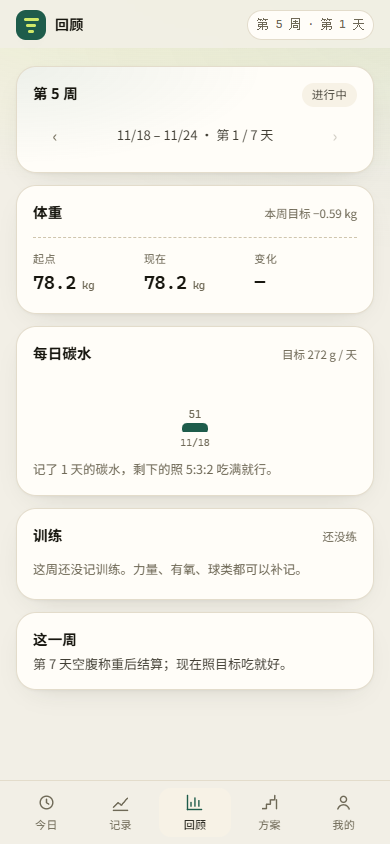
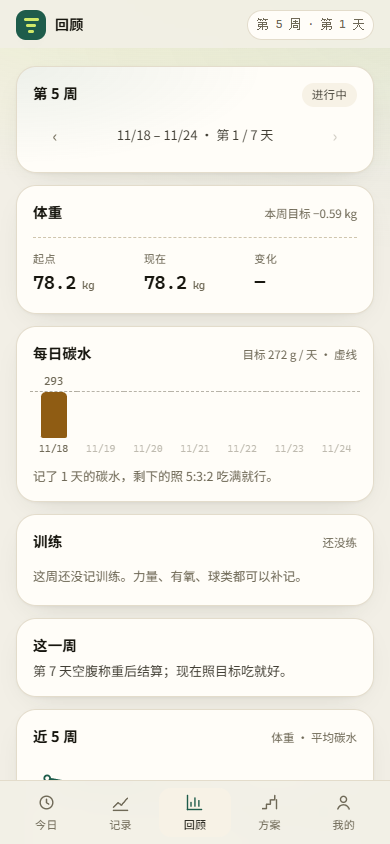
回顾页加目标虚线与未到日期占位，新增近 8 周体重/碳水趋势（v19）

diff --git a/assets/app.js b/assets/app.js
@@ -714,14 +714,25 @@
       var cls = d.over ? ' is-over' : (!d.logged ? ' is-empty' : '');
       return '<div class="rv-bar' + cls + '">' +
         '<span class="rv-val">' + (d.logged ? n0(d.carb) : '') + '</span>' +
-        '<i style="height:' + Math.max(3, Math.round(pct * 0.46)) + 'px"></i>' +
+        '<div class="rv-plot"><u class="rv-goal"></u>' +
+          '<i style="height:' + Math.max(3, Math.round(pct * 0.46)) + 'px"></i></div>' +
         '<span class="rv-day">' + md(d.key).replace('/', '/') + '</span>' +
       '</div>';
     }).join('');
+    var future = '';
+    if (r.isCurrent) {
+      for (var fi = r.carb.days.length; fi < 7; fi++) {
+        future += '<div class="rv-bar is-future" aria-hidden="true">' +
+          '<span class="rv-val"></span>' +
+          '<div class="rv-plot"><u class="rv-goal"></u><i style="height:0"></i></div>' +
+          '<span class="rv-day">' + md(C.addDaysKey(r.from, fi)).replace('/', '/') + '</span>' +
+        '</div>';
+      }
+    }
     parts.push(
       '<section class="card">' +
-        '<div class="card-head"><h2>每日碳水</h2><span class="muted small">目标 ' + n0(r.carb.target) + ' g / 天</span></div>' +
-        '<div class="rv-bars" role="img" aria-label="' + esc('本周每日碳水：' + r.carb.days.map(function (d) { return md(d.key) + ' ' + n0(d.carb) + ' 克'; }).join('，')) + '">' + bars + '</div>' +
+        '<div class="card-head"><h2>每日碳水</h2><span class="muted small">目标 ' + n0(r.carb.target) + ' g / 天 · 虚线</span></div>' +
+        '<div class="rv-bars" role="img" aria-label="' + esc('本周每日碳水：' + r.carb.days.map(function (d) { return md(d.key) + ' ' + n0(d.carb) + ' 克'; }).join('，')) + '">' + bars + future + '</div>' +
         '<p class="rv-note">' + (r.carb.logged ? '记了 ' + r.carb.logged + ' 天的碳水，剩下的照 5:3:2 吃满就行。' : '这周还没记过吃的，点「今日 → 全部食物」开始。') + '</p>' +
       '</section>'
     );
@@ -750,7 +761,61 @@
       '</section>'
     );
 
+    parts.push(trendCard());
+
     return parts.join('');
+  }
+
+  /* 近 8 周趋势：周末体重折线 + 每周平均碳水 */
+  function trendCard() {
+    var m = C.monthlyReview(state, 8);
+    var list = m.weeks;
+    var weights = list.filter(function (w) { return w.weightEnd != null; });
+    var head = '<div class="card-head"><h2>近 ' + list.length + ' 周</h2>' +
+      '<span class="muted small">体重 · 平均碳水</span></div>';
+
+    var chart;
+    if (weights.length < 2) {
+      chart = '<p class="empty">再记 ' + (2 - weights.length) + ' 周体重，这里就会出现趋势线。</p>';
+    } else {
+      var W = 320, H = 84, P = 14;
+      var ys = weights.map(function (w) { return w.weightEnd; });
+      var lo = Math.min.apply(null, ys) - 0.4, hi = Math.max.apply(null, ys) + 0.4;
+      if (hi - lo < 0.8) { hi = lo + 0.8; }
+      function px(i) { return P + (list.length === 1 ? 0 : i / (list.length - 1)) * (W - 2 * P); }
+      function py(v) { return H - P - ((v - lo) / (hi - lo)) * (H - 2 * P); }
+      var pts = [];
+      list.forEach(function (w, i) { if (w.weightEnd != null) pts.push([px(i), py(w.weightEnd)]); });
+      var d = pts.map(function (p, i) { return (i ? 'L' : 'M') + p[0].toFixed(1) + ' ' + p[1].toFixed(1); }).join(' ');
+      var dots = pts.map(function (p) { return '<circle class="dot" cx="' + p[0].toFixed(1) + '" cy="' + p[1].toFixed(1) + '" r="2.8"/>'; }).join('');
+      var last = pts[pts.length - 1];
+      chart = '<svg class="chart trend" viewBox="0 0 ' + W + ' ' + H + '" role="img" aria-label="' +
+        esc('近 ' + list.length + ' 周周末体重：' + weights.map(function (w) { return '第' + w.week + '周 ' + n1(w.weightEnd) + ' 公斤'; }).join('，')) + '">' +
+        '<path class="line" d="' + d + '"/>' + dots +
+        '<text class="cap" x="' + last[0].toFixed(1) + '" y="' + (last[1] - 8).toFixed(1) + '" text-anchor="end">' + n1(weights[weights.length - 1].weightEnd) + '</text>' +
+      '</svg>';
+    }
+
+    var weeks = list.map(function (w) {
+      var pct = w.carbAvg != null ? Math.min(100, (w.carbAvg / w.carbTarget) * 100) : 0;
+      var cls = w.carbAvg == null ? ' is-empty' : (w.carbAvg > w.carbTarget + 0.5 ? ' is-over' : '');
+      return '<div class="rv-bar' + cls + '">' +
+        '<span class="rv-val">' + (w.carbAvg != null ? n0(w.carbAvg) : '') + '</span>' +
+        '<div class="rv-plot"><u class="rv-goal"></u>' +
+          '<i style="height:' + Math.max(3, Math.round(pct * 0.46)) + 'px"></i></div>' +
+        '<span class="rv-day">' + w.week + '</span>' +
+      '</div>';
+    }).join('');
+
+    return '<section class="card">' + head +
+      chart +
+      '<div class="rv-bars small" role="img" aria-label="' +
+        esc('近 ' + list.length + ' 周平均每日碳水：' + list.map(function (w) { return '第' + w.week + '周 ' + (w.carbAvg == null ? '无记录' : n0(w.carbAvg) + ' 克'); }).join('，')) + '">' + weeks + '</div>' +
+      '<p class="rv-note">柱子是每周的平均每日碳水，只算有记录的天；虚线是当前目标。' +
+        (list.some(function (w) { return w.minutes > 0; })
+          ? ' 这 ' + list.length + ' 周共训练 ' + list.reduce(function (s, w) { return s + w.minutes; }, 0) + ' 分钟。'
+          : '') + '</p>' +
+    '</section>';
   }
 
   /* ---------------- 方案 ---------------- */

diff --git a/assets/core.js b/assets/core.js
@@ -411,6 +411,29 @@
     };
   }
 
+  /* 近 N 周趋势：每周收尾体重 + 平均每日碳水 + 训练分钟 */
+  function monthlyReview(state, weeks) {
+    weeks = Math.max(1, Math.round(toNum(weeks, 8)));
+    var cur = Math.max(1, Math.floor(diffDaysKeys(state.startDate, todayKey()) / 7) + 1);
+    var first = Math.max(1, cur - weeks + 1);
+    var out = [];
+    for (var w = first; w <= cur; w++) {
+      var r = weekReview(state, w);
+      var logged = r.carb.days.filter(function (d) { return d.logged; });
+      var avg = logged.length
+        ? round(logged.reduce(function (s, d) { return s + d.carb; }, 0) / logged.length, 0)
+        : null;
+      out.push({
+        week: w, from: r.from, to: r.to, isCurrent: r.isCurrent,
+        weightEnd: r.weight.end, weightChange: r.weight.change,
+        carbAvg: avg, carbDays: logged.length, carbTarget: r.carb.target,
+        minutes: r.workout.minutes, sessions: r.workout.count,
+        status: r.status
+      });
+    }
+    return { weeks: out, current: cur, from: first };
+  }
+
   /* 收藏（置顶在食物选择器里） */
   function isFavorite(state, id) {    return (state.favorites || []).indexOf(id) >= 0;
   }
@@ -636,6 +659,7 @@
     removeWorkout: removeWorkout,
     workoutStats: workoutStats,
     weekReview: weekReview,
+    monthlyReview: monthlyReview,
     weeklyWorkouts: weeklyWorkouts,
     isFavorite: isFavorite,
     toggleFavorite: toggleFavorite,

diff --git a/test/browser-seedfood.js b/test/browser-seedfood.js
@@ -1,0 +1,37 @@
+(function () {
+  var KEY = 'carb532.state.v1';
+  var C = window.Carb532;
+  var s = JSON.parse(localStorage.getItem(KEY));
+  var foods = {};
+  C.FOODS.forEach(function (f) { foods[f.id] = f; });
+  var rice = foods.rice, chicken = foods.chicken, oil = foods.oil;
+  var t = C.currentTargets(s.plan);
+  var today = C.todayKey();
+  var d = s.startDate;
+  var i = 0;
+
+  function entry(f, grams) {
+    var k = grams / 100;
+    return {
+      id: f.id, name: f.name, grams: grams,
+      carb: Math.round(f.carb * k * 10) / 10,
+      protein: Math.round(f.protein * k * 10) / 10,
+      fat: Math.round(f.fat * k * 10) / 10
+    };
+  }
+
+  while (d <= today) {
+    var target = t.carb;
+    var wave = ((i * 37) % 70) - 35;
+    var carb = Math.max(120, target + wave);
+    var list = [entry(rice, Math.round(carb / (rice.carb / 100)))];
+    if (i % 3 !== 0) list.push(entry(chicken, 120));
+    if (i % 4 === 0) list.push(entry(oil, 8));
+    foods[d] = list;
+    s.foods[d] = list;
+    d = C.addDaysKey(d, 1);
+    i++;
+  }
+  localStorage.setItem(KEY, JSON.stringify(s));
+  return JSON.stringify({ days: i, foods: Object.keys(s.foods).length, target: t.carb });
+})()

diff --git a/assets/app.css b/assets/app.css
@@ -1279,6 +1279,23 @@ html { font-size: 100%; }
   border-radius: 5px 5px 2px 2px;
   background: var(--green);
 }
+.rv-plot {
+  position: relative;
+  width: 100%;
+  height: 48px;
+  display: flex;
+  align-items: flex-end;
+  justify-content: center;
+}
+.rv-goal {
+  position: absolute;
+  left: -3px;
+  right: -3px;
+  bottom: 46px;
+  border-top: 1px dashed var(--muted);
+  opacity: 0.55;
+  pointer-events: none;
+}
 .rv-bar.is-over i { background: var(--amber); }
 .rv-bar.is-empty i { background: var(--line); }
 .rv-bar .rv-day {
@@ -1323,3 +1340,15 @@ html { font-size: 100%; }
 }
 .rv-nav .rv-range { margin-top: 0; flex: 1; text-align: center; }
 .rv-nav .icon-btn[disabled] { opacity: 0.35; }
+
+/* 近 8 周趋势 */
+.chart.trend { margin-top: 8px; }
+.rv-bars.small { min-height: 62px; margin-top: 4px; }
+.rv-bars.small .rv-plot { height: 40px; }
+.rv-bars.small .rv-goal { bottom: 38px; }
+.rv-bars.small .rv-bar i { max-width: 22px; }
+.rv-bars.small .rv-val, .rv-bars.small .rv-day { font-size: 0.625rem; }
+
+.rv-bar.is-future .rv-val, .rv-bar.is-future .rv-day { opacity: 0.45; }
+.rv-bar.is-future .rv-goal { opacity: 0.5; }
+.rv-bar.is-future i { background: transparent; }

diff --git a/sw.js b/sw.js
@@ -5,7 +5,7 @@
  *
  * 发版：把下面 V 加 1，并同步改 index.html 里三处 ?v=（app.css / core.js / app.js）。
  */
-var V = '18';
+var V = '19';
 var CACHE = 'carb532-v' + V;
 var SHELL = [
   './',
@@ -33,20 +33,21 @@ self.addEventListener('install', function (event) {
 
 self.addEventListener('activate', function (event) {
   event.waitUntil(
-    caches.keys().then(function (keys) {
-      return Promise.all(keys.map(function (k) {
-        if (k !== CACHE) return caches.delete(k);
-      }));
-    }).then(function () {
-      return self.clients.claim();
-    })
+    caches.keys()
+      .then(function (keys) {
+        return Promise.all(keys.map(function (k) {
+          if (k !== CACHE) return caches.delete(k);
+        }));
+      })
+      .then(function () {
+        return self.clients.claim();
+      })
   );
 });
 
 self.addEventListener('fetch', function (event) {
   var req = event.request;
   if (req.method !== 'GET') return;
-
   var url = new URL(req.url);
   if (url.origin !== self.location.origin) return;
 

diff --git a/index.html b/index.html
@@ -16,7 +16,7 @@
 <meta name="mobile-web-app-capable" content="yes">
 <meta name="apple-mobile-web-app-status-bar-style" content="default">
 <meta name="apple-mobile-web-app-title" content="532 碳降">
-<link rel="stylesheet" href="assets/app.css?v=18">
+<link rel="stylesheet" href="assets/app.css?v=19">
 </head>
 <body>
 <div class="page">
@@ -177,7 +177,7 @@
 
 <noscript><p class="noscript">这个应用需要开启 JavaScript 才能计算方案。</p></noscript>
 
-<script src="assets/core.js?v=18"></script>
-<script src="assets/app.js?v=18"></script>
+<script src="assets/core.js?v=19"></script>
+<script src="assets/app.js?v=19"></script>
 </body>
 </html>

diff --git a/README.md b/README.md
@@ -33,9 +33,9 @@
 | --- | --- | --- |
 | ![方案](screens/04-plan.png) | ![碳水阶梯](screens/05-plan-steps.png) | ![我的](screens/06-me.png) |
 
-| 回顾（周报） | 回顾 · 深色 | | |
+| 回顾（周报） | 近 8 周趋势 | 回顾 · 深色 | |
 | --- | --- | --- | --- |
-| ![回顾](screens/13-review.png) | ![回顾深色](screens/14-review-dark.png) | | |
+| ![回顾](screens/13-review.png) | ![近 8 周趋势](screens/15-trend.png) | ![回顾深色](screens/14-review-dark.png) | |
 
 | 快速添加（最近常吃） | 食物选择器（分组） | 训练记录 | 深色主题 |
 | --- | --- | --- | --- |
@@ -59,7 +59,7 @@
 
 **记体重**：每天固定时间称一次，记录页的「补记」可以选过去的日期（按日期存，一天一条，同一天再记会覆盖），点任意一行能改那一天的数字。只有每周第 7 天的记录参与周结算，其余天数只进曲线。
 
-**看一周**：「回顾」页把一周摊开——顶部是第 N 周和状态（进行中 / 达标 / 待调碳…），左右箭头翻看历史周；下面是体重（起点 / 现在 / 变化，和本周目标对比）、每天一根的碳水柱（超过目标变琥珀色）、训练次数与时长，最后一行告诉你这周接下来该做什么。想复盘「为什么这周没掉秤」或「哪天吃超了」，看这一页就够。
+**看一周**：「回顾」页把一周摊开——顶部是第 N 周和状态（进行中 / 达标 / 待调碳…），左右箭头翻看历史周；下面是体重（起点 / 现在 / 变化，和本周目标对比）、每天一根的碳水柱（虚线是目标，超过变琥珀色）、训练次数与时长，最后一行告诉你这周接下来该做什么。页面底部还有一张「近 8 周」：周末体重折线 + 每周平均每日碳水柱，一眼看出趋势是往下走还是在原地打转。
 
 **看得清**：「我的 → 显示」里有文字大小三档（标准 / 大 / 特大），设置会记住；外观默认跟随系统，需要时可在同处切换。
 

diff --git a/docs/hig-review.md b/docs/hig-review.md
@@ -201,3 +201,15 @@
 | 无障碍 | 碳水柱整块 `role="img"`，`aria-label` 逐日报出「11/18：51 g（目标 272 g）」，柱内数值不依赖颜色单独传达 | VoiceOver 读出 7 天数值 |
 
 设计取舍：周回顾只做「呈现」不做「干预」——它不新增任何可调参数，所有动作仍然回到「今日」页和「方案参数」，避免在复盘页里出现第二个调碳入口。
+
+---
+
+## 后续（v19）：目标虚线、未到日期占位与近 8 周趋势
+
+| 改动 | 说明 | 验证 |
+| --- | --- | --- |
+| 碳水柱加目标虚线 | 每根柱背后一条虚线（`--muted` 55%），柱高按「占目标百分比 × 46px」；本周还没到的日期用 7 个占位列补齐，日期标签降到 45% 不透明 | 周一打开时显示 11/18–11/24 七列，只有 11/18 有柱 |
+| 超过目标用琥珀 | 日柱与周均柱统一：超过目标 0.5 g 即 `.is-over`（琥珀），未记录 `.is-empty`（灰基线） | 293 g 的当日柱为琥珀，258/265 g 为绿 |
+| 近 8 周趋势 | 回顾页底部新增卡片：周末体重折线（SVG，带末点数值）+ 每周平均每日碳水柱（虚线为目标），底部注明「只算有记录的天」并附总训练分钟 | 5 周数据：折线 79.9 → 78.2，柱 258/277/276/265/293，超目标三根为琥珀 |
+
+设计取舍：趋势卡放在页面最底部，因为它是「回头看」而不是「今天做什么」；所有可执行动作仍留在上周卡与「这一周」提示里。
